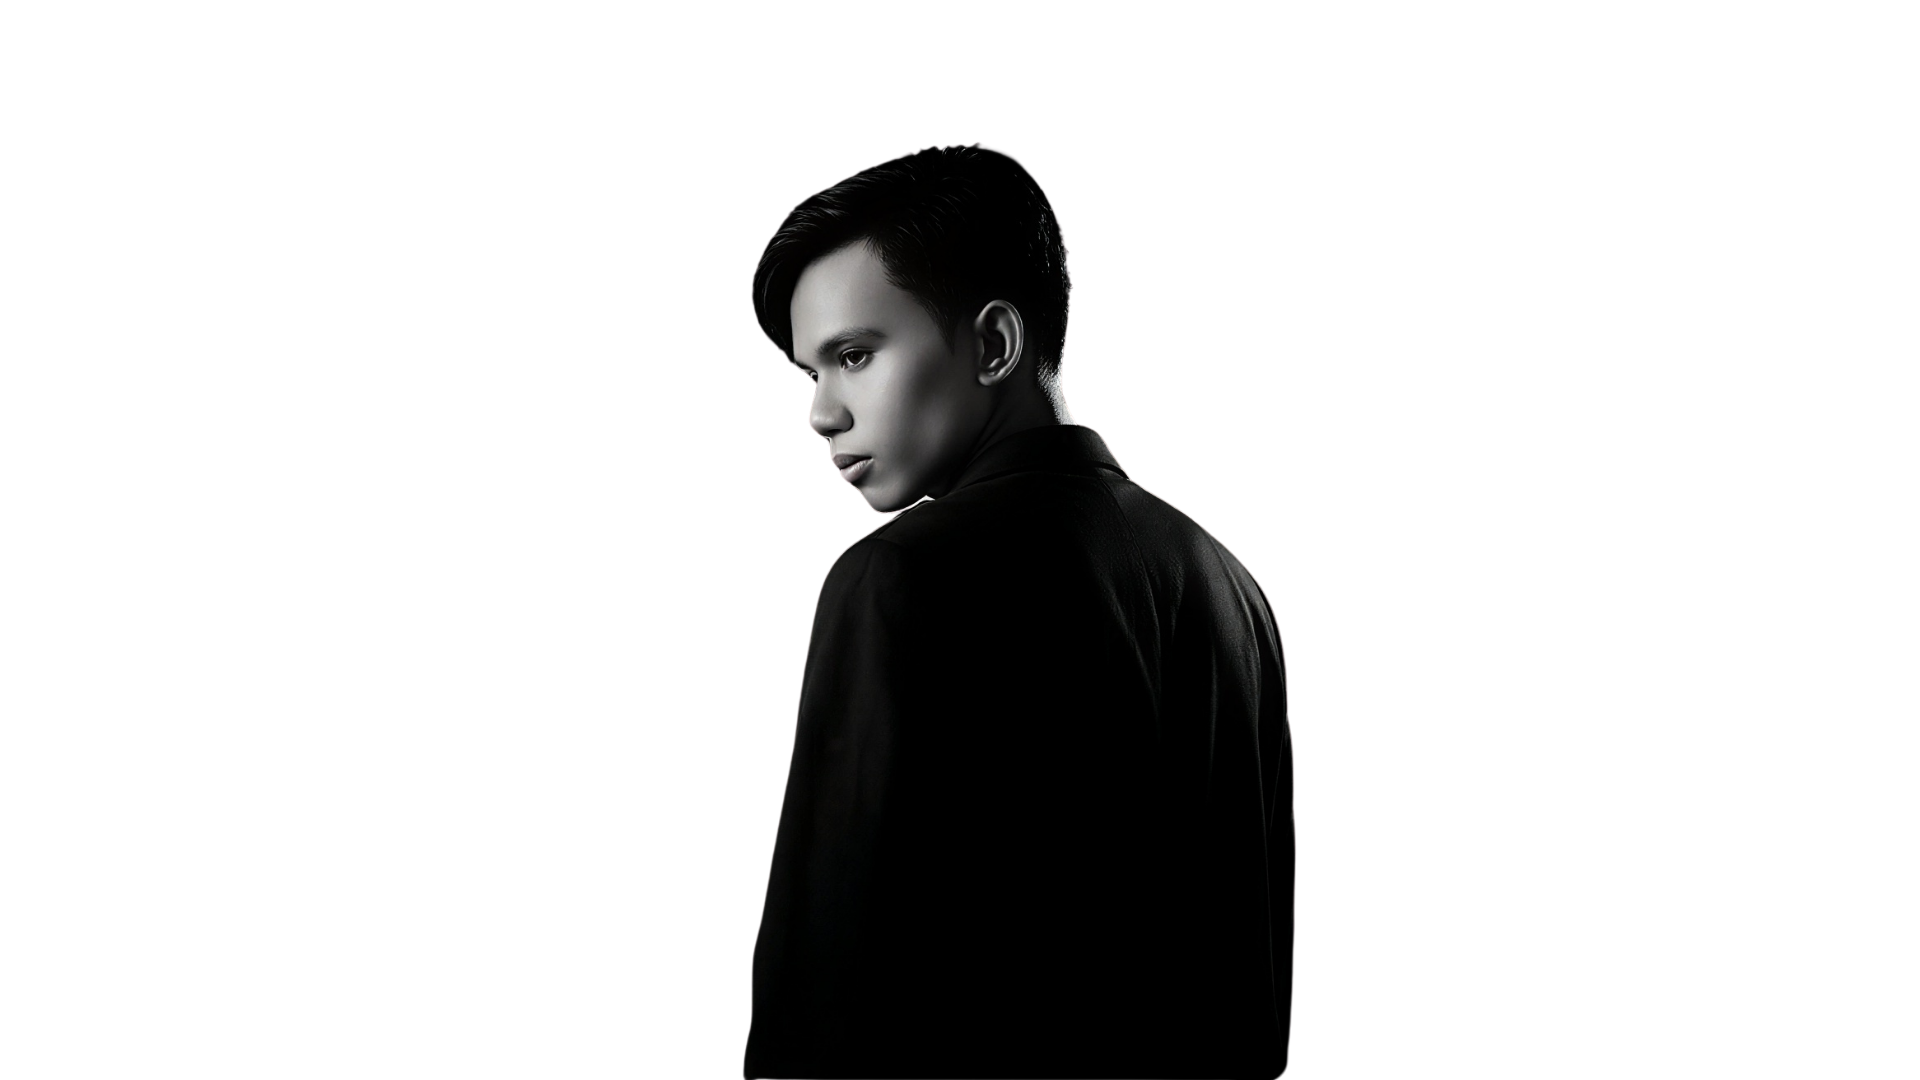
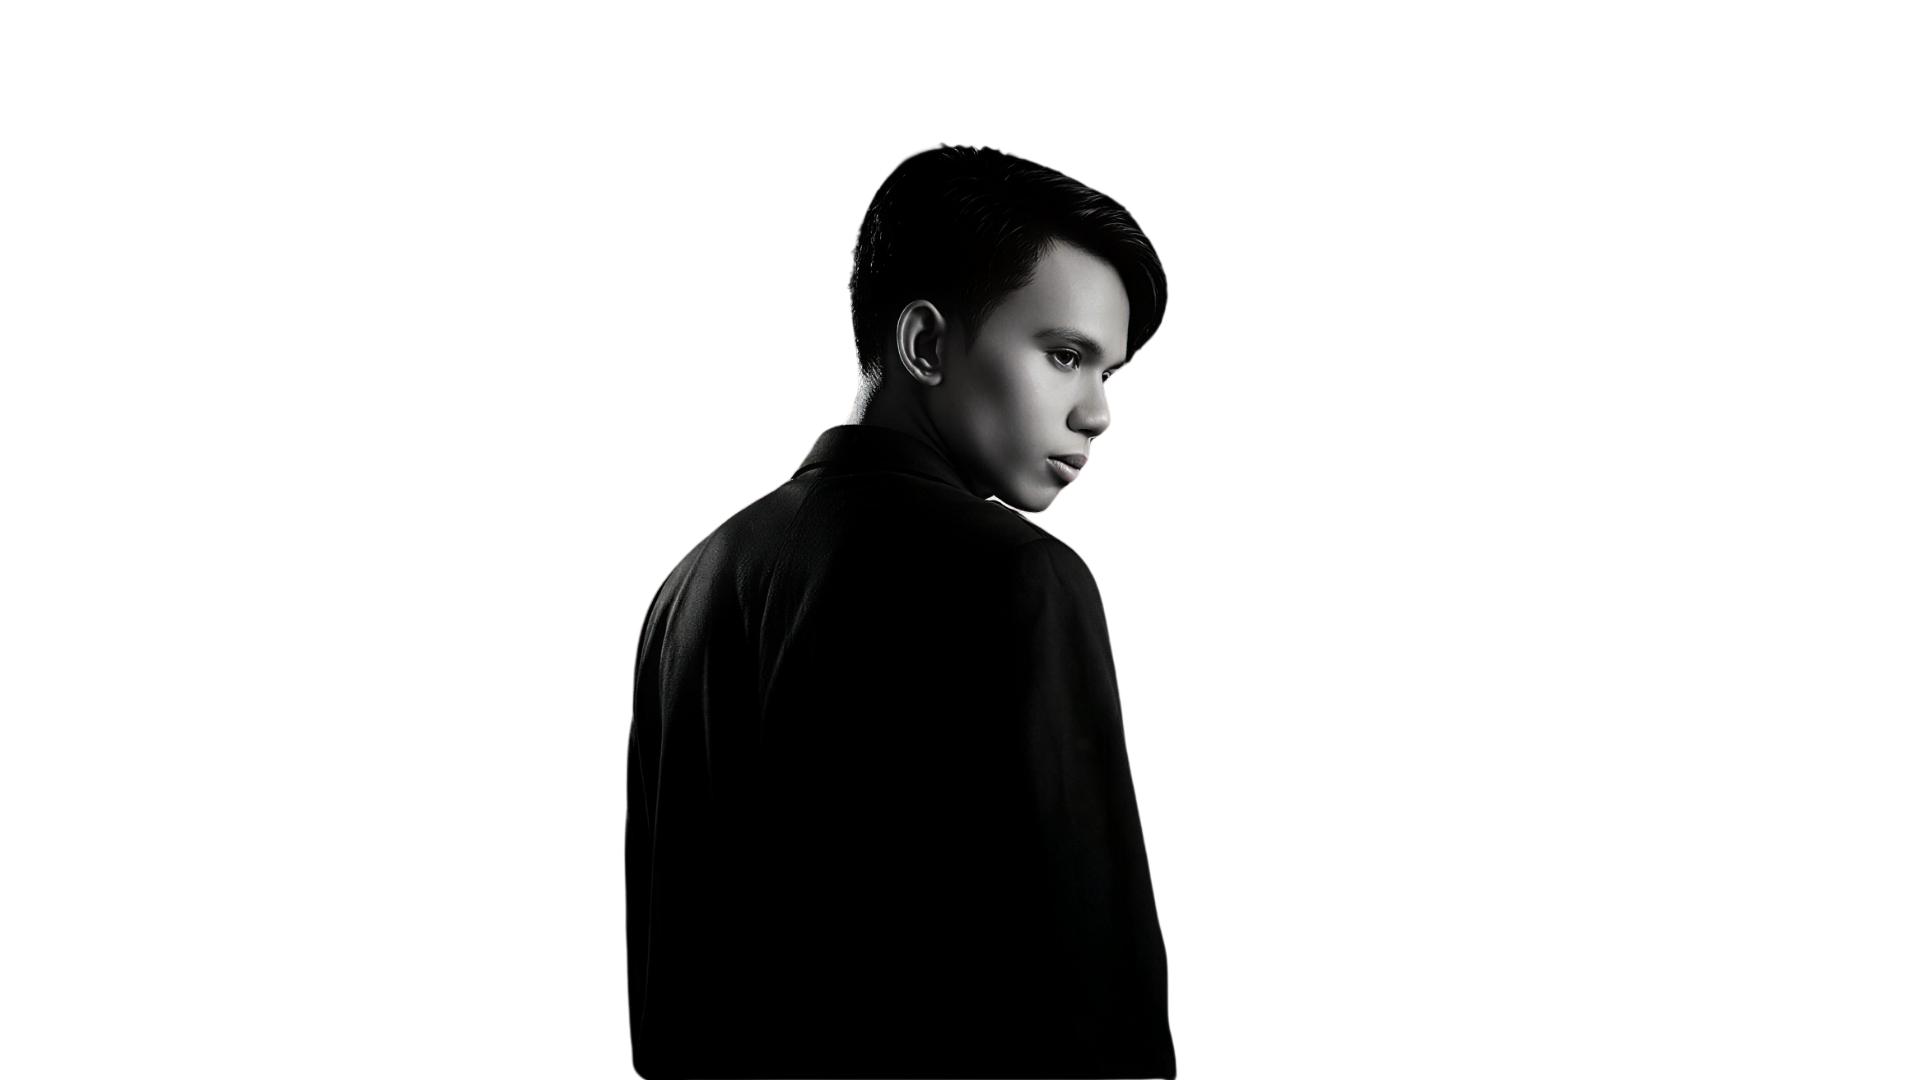
updates

Changed region(s): [[0.3125, 0.1528, 0.6875, 1.0], [0.4688, 0.1222, 0.5312, 0.1528]]

diff --git a/src/components/sections/WorksSection.tsx b/src/components/sections/WorksSection.tsx
@@ -227,12 +227,23 @@ export const WorksSection = memo(() => {
                           onClick={() => setSelectedId(project.id)}
                           className="cursor-pointer group relative w-full aspect-[16/10] lg:h-[145px] flex-shrink-0 overflow-hidden rounded-[15px] border border-white/10 hover:border-[#7c3aed]/50 transition-[border-color,transform] duration-500"
                         >
-                          <img 
-                            src={project.img} 
-                            alt={project.title}
-                            className="w-full h-full object-cover opacity-60 group-hover:opacity-100 group-hover:scale-110 transition-all duration-700" 
-                          />
+                          {project.img ? (
+                            <img 
+                              src={project.img} 
+                              alt={project.title}
+                              className="w-full h-full object-cover opacity-60 group-hover:opacity-100 group-hover:scale-110 transition-all duration-700" 
+                            />
+                          ) : (
+                            <div className="w-full h-full bg-black" />
+                          )}
                           <div className="absolute inset-0 bg-black/20 group-hover:bg-transparent transition-colors duration-300" />
+                          {!project.img && project.status && (
+                            <div className="absolute inset-0 flex items-center justify-center pointer-events-none">
+                              <div className="heading-font text-[18px] tracking-[0.22em] text-white/12 uppercase text-center px-3">
+                                {project.status}
+                              </div>
+                            </div>
+                          )}
                           <div className="absolute bottom-0 left-0 w-full p-4 bg-gradient-to-t from-black via-black/80 to-transparent transform translate-y-2 group-hover:translate-y-0 transition-transform duration-300">
                             <p className="tech-font text-[10px] text-white/90 uppercase tracking-widest truncate">{project.title}</p>
                           </div>

diff --git a/src/components/sections/ContactSection.tsx b/src/components/sections/ContactSection.tsx
@@ -36,22 +36,6 @@ export const ContactSection = () => {
 
         <div className="contact-shell locked-content relative z-10 mx-auto grid h-full w-full max-w-6xl grid-cols-[minmax(0,0.9fr)_minmax(320px,380px)_minmax(0,0.9fr)] items-center gap-8 py-12">
           <div className="contact-text contact-copy scroll-parallax-text" data-speed="0.04" style={{ width: '100%', textAlign: 'left' }}>
-            <div
-              className="tech-font text-reveal text-reveal-fast text-reveal-delay-1"
-              style={{
-                display: 'inline-flex',
-                alignItems: 'center',
-                gap: '0.9rem',
-                marginBottom: '1.75rem',
-                fontSize: '10px',
-                letterSpacing: '0.34em',
-                textTransform: 'uppercase',
-                color: 'rgba(124, 58, 237, 0.82)'
-              }}
-            >
-              Contact
-            </div>
-
             <h2
               className="text-reveal text-reveal-delay-2"
               style={{

diff --git a/src/components/sections/AboutSection.tsx b/src/components/sections/AboutSection.tsx
@@ -1,4 +1,4 @@
-import heroImage from '../../assets/images/hero.png';
+import heroImage from '../../assets/images/hero2.png';
 import { useMobileReveal } from '../../hooks/useMobileReveal';
 import { experience, projects } from '../../data/works';
 import jsIcon from '../../assets/icons/tech/javascript-original.svg';
